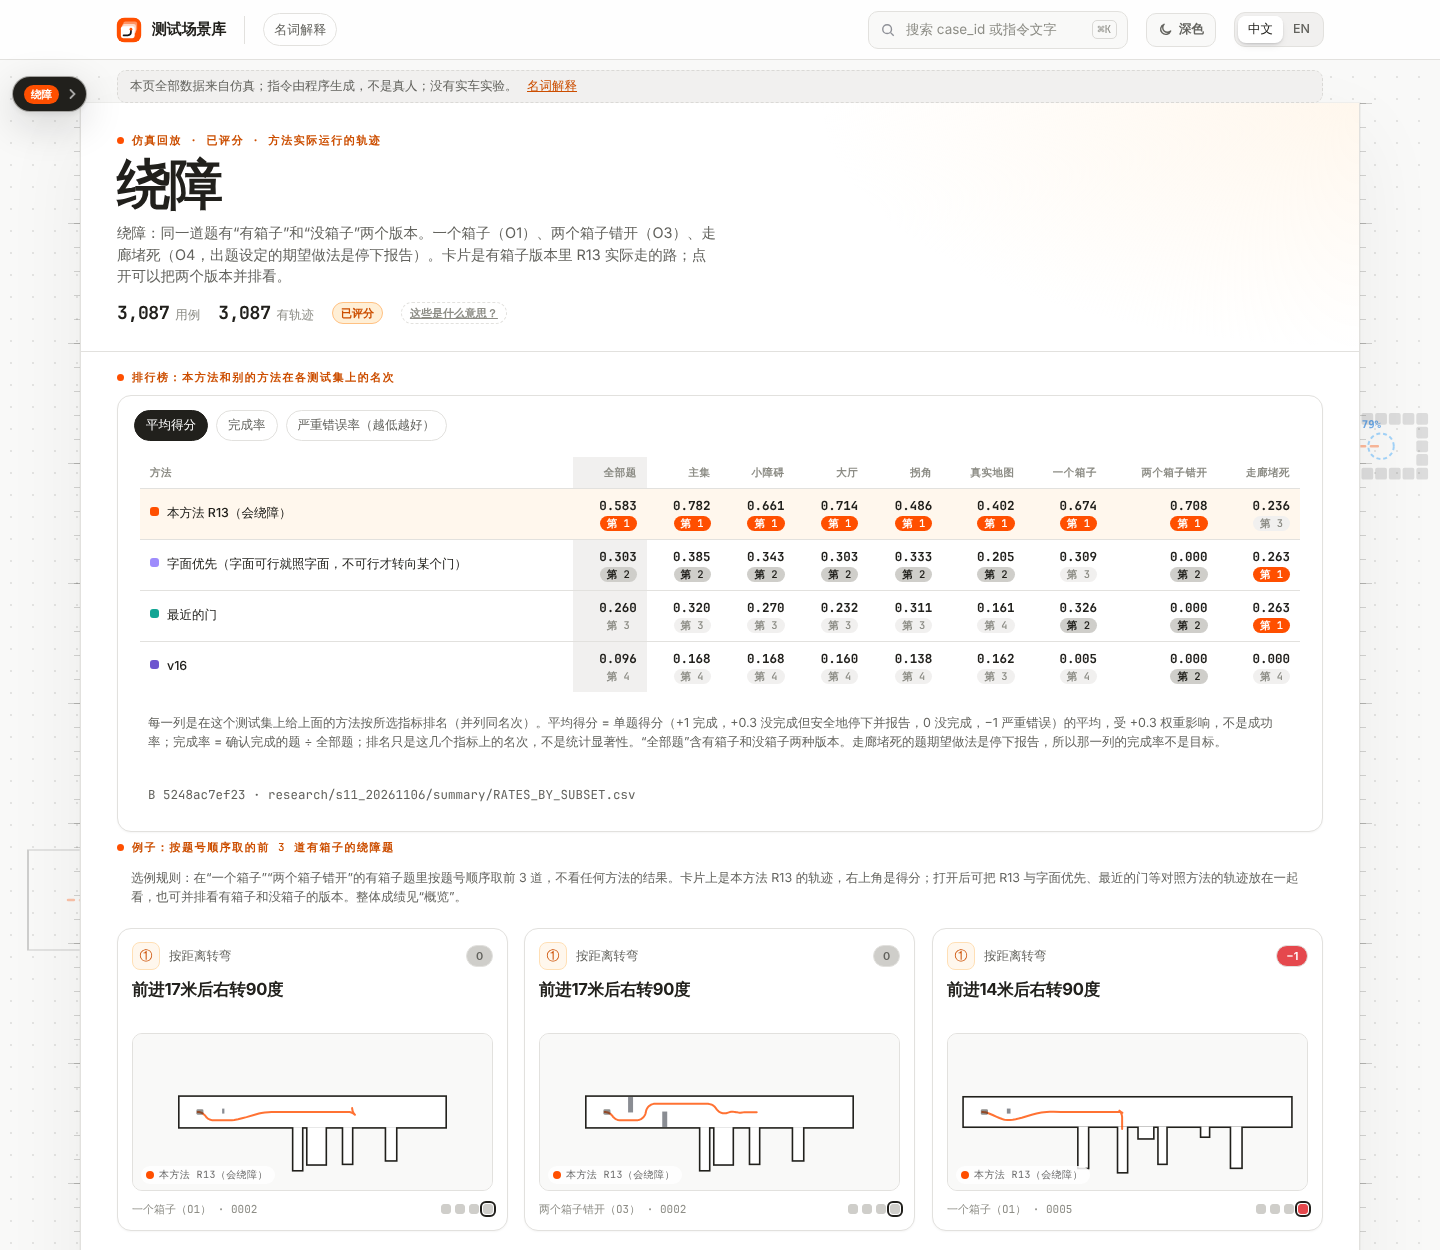
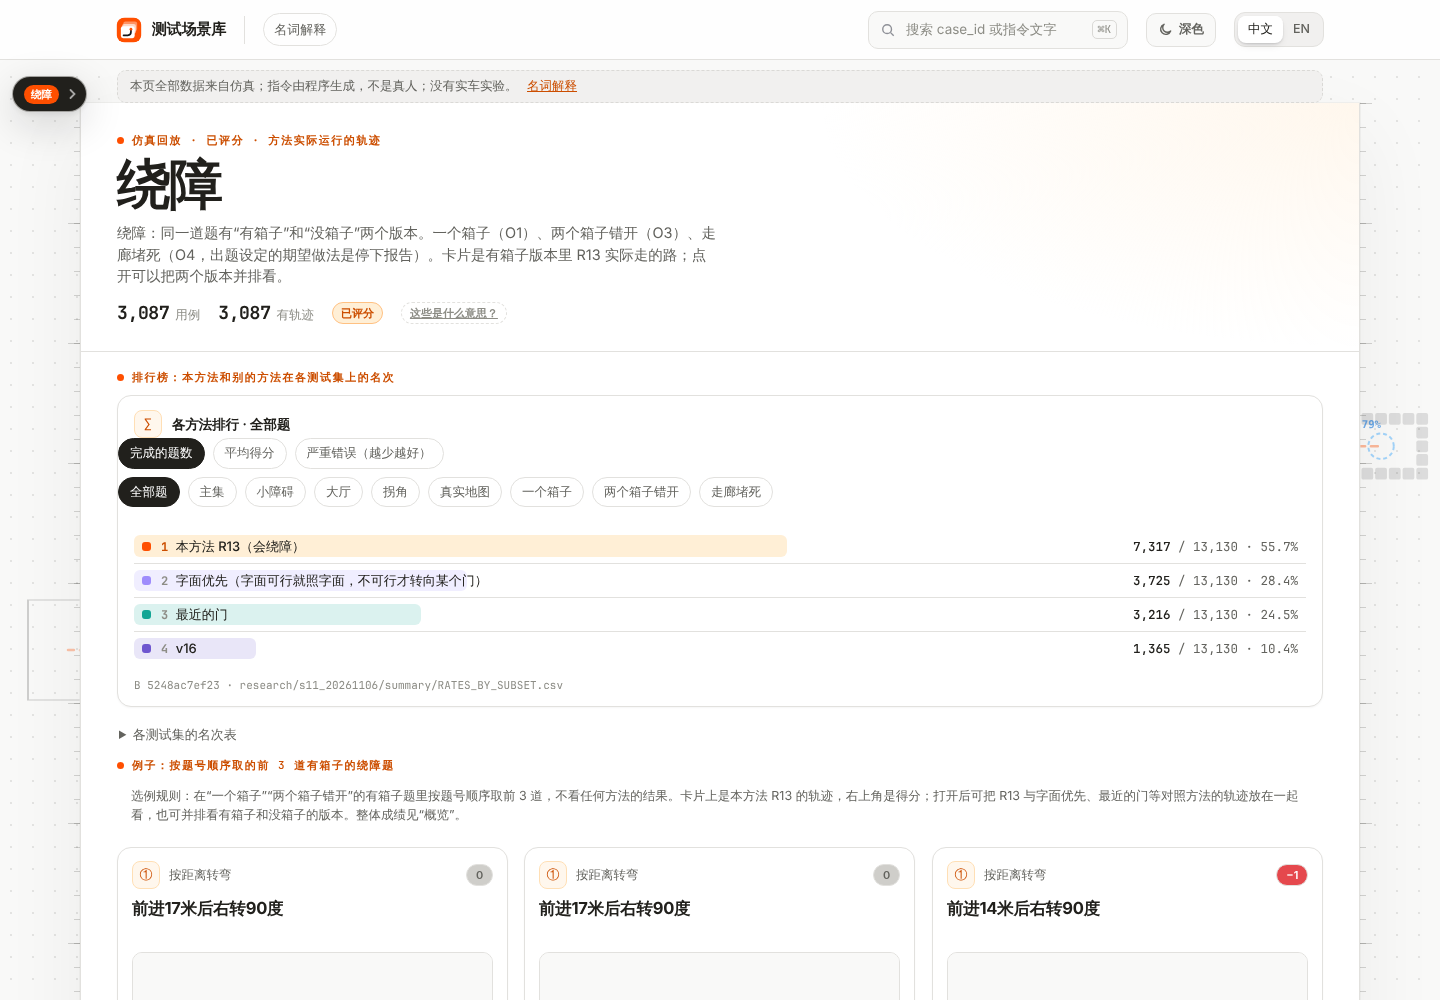
Update site: bar-style ranking
Claude-Session: https://claude.ai/code/session_01WXp2ArzCVivbkPhHKuNYSE

diff --git a/assets/s11.js b/assets/s11.js
@@ -259,9 +259,29 @@ function rankHTML(compact) {
     <p class="note">${T('每一列是在这个测试集上给上面的方法按所选指标排名（并列同名次）。平均得分 = 单题得分（+1 完成，+0.3 没完成但安全地停下并报告，0 没完成，−1 严重错误）的平均，受 +0.3 权重影响，不是成功率；完成率 = 确认完成的题 ÷ 全部题；排名只是这几个指标上的名次，不是统计显著性。“全部题”含有箱子和没箱子两种版本。走廊堵死的题期望做法是停下报告，所以那一列的完成率不是目标。', 'Each column ranks the methods above on the chosen metric for that test set (ties share a rank). Mean score = average of the per-case score (+1 completed, +0.3 not completed but stopped safely and reported, 0 not completed, −1 severe error), affected by the +0.3 weight and not a success rate; completion rate = confirmed completed ÷ all cases; ranks are positions on these metrics, not statistical significance. “All cases” includes the with-box and no-box versions. In the corridor-blocked cases the expected behaviour is to stop and report, so completion is not the goal in that column.')}</p>
     <div class="note src">${esc(S.sources.rates)}</div>`;
 }
+const BK = {scope: 'ALL_LOGICAL', metric: 'comp'};
+function barsHTML() {
+  const m = BK.metric, low = m === 'sev', arms = RK_CORE;
+  const rows = arms.map(a => { const r = rate(BK.scope, a); if (!r) return null;
+    const v = rkVal(r, m), num = m === 'comp' ? r.confirmed_completed : m === 'sev' ? r.severe : v, den = m === 'comp' ? r.n : m === 'sev' ? r.severe_known : 1;
+    const share = m === 'mean' ? Math.max(0, v) : m === 'comp' ? v : Math.min(1, v * 4);
+    return {a, v, num, den, share}; }).filter(Boolean).sort((p, q) => low ? p.v - q.v : q.v - p.v);
+  const mt = [['comp', T('完成的题数', 'Cases completed')], ['mean', T('平均得分', 'Mean score')], ['sev', T('严重错误（越少越好）', 'Severe errors (fewer is better)')]];
+  const sc = RK_SCOPES.find(x => x[0] === BK.scope);
+  return `<article class="card metric rkbars"><div class="card-h"><span class="tile">∑</span><h3>${T('各方法排行', 'Ranking of the methods')} · ${esc(T(sc[1], sc[2]))}</h3></div>
+    <nav class="atoc s10nav rkm" style="margin:0 0 8px">${mt.map(([k, l]) => `<a class="${BK.metric === k ? 'on' : ''}" data-m="${k}">${l}</a>`).join('')}</nav>
+    <nav class="atoc s10nav rks" style="margin:0 0 10px">${RK_SCOPES.map(([k, zh, en]) => `<a class="${BK.scope === k ? 'on' : ''}" data-s="${k}">${T(zh, en)}</a>`).join('')}</nav>
+    <div class="rows">${rows.map((r, i) => `<div class="row ${r.a === 'method_R13' ? 'me' : ''}" style="--c:${ARMC[r.a] || '#888'}"><span class="share" style="width:${(r.share * 100).toFixed(1)}%"></span><span class="sw" style="background:${ARMC[r.a] || '#888'}"></span><span class="nm"><i class="rkn">${i + 1}</i> ${esc(armName(r.a))}</span>
+      <span class="val">${m === 'mean' ? `<b>${r.v.toFixed(3)}</b>` : `<b>${fmt(r.num)}</b> / ${fmt(r.den)}`}${m === 'comp' ? ` · ${(100 * r.v).toFixed(1)}%` : ''}</span></div>`).join('')}</div>
+    <div class="foot src">${esc(S.sources.rates)}${m === 'mean' ? ' · ' + T('平均得分 = 单题得分的平均（+1 完成，+0.3 没完成但安全地停下并报告，0 没完成，−1 严重错误）', 'mean score = average per-case score (+1 completed, +0.3 not completed but stopped safely and reported, 0 not completed, −1 severe error)') : ''}</div></article>`;
+}
 function mountRank(host) {
   if (!host) return;
-  const draw = () => { host.innerHTML = rankHTML(); host.querySelectorAll('.rkm a').forEach(a => a.onclick = () => { RK.metric = a.dataset.m; draw(); }); const c = host.querySelector('.rkchk'); if (c) c.onchange = () => { RK.all = c.checked; draw(); }; };
+  const draw = () => { host.innerHTML = barsHTML() + `<details class="rkdet" style="margin-top:12px"><summary>${T('各测试集的名次表', 'Rank table per test set')}</summary>${rankHTML()}</details>`;
+    host.querySelectorAll('.rkbars .rkm a').forEach(a => a.onclick = () => { BK.metric = a.dataset.m; RK.metric = a.dataset.m; draw(); host.querySelector('.rkdet').open = host.dataset.open === '1'; });
+    host.querySelectorAll('.rks a').forEach(a => a.onclick = () => { BK.scope = a.dataset.s; draw(); });
+    host.querySelectorAll('.rkdet .rkm a').forEach(a => a.onclick = () => { RK.metric = a.dataset.m; BK.metric = a.dataset.m; host.dataset.open = '1'; draw(); host.querySelector('.rkdet').open = true; });
+    const c = host.querySelector('.rkchk'); if (c) c.onchange = () => { RK.all = c.checked; host.dataset.open = '1'; draw(); host.querySelector('.rkdet').open = true; }; };
   draw();
 }
 function dataHTML() {
@@ -271,7 +291,7 @@ function dataHTML() {
   return `<section class="s10data" id="s11data"><div class="eyebrow" style="margin-top:34px"><span class="dot"></span>${T('主方法 R13 的测试结果', 'Results of the main method R13')} · B ${esc(S.b.slice(0, 11))}</div>
     <p class="lede" style="margin:6px 0 12px">${T('R13 是本项目提出的方法。它在“照指令字面走”和“进某个门”之间选一个；路被箱子挡住时会换道绕过去，绕不过去才停下报告。下面是它在各测试集上和字面优先、最近的门、v16 的对照。全部是仿真，指令由程序生成。', 'R13 is the method proposed in this project. It chooses between following the words of the instruction and entering an opening; when a box blocks the way it changes lane around it, and only when it cannot get around does it stop and report. Below it is compared with literal-first, nearest opening and v16 on every test set. Everything is simulated, and commands are program-generated.')}</p>
     <p class="note" style="margin:0 0 10px">${T('几个数量的口径：测试题 13,130 道（绕障的“有箱子”“没箱子”各算一题）；题 × 8 个方法 = 105,040 个结果；其中 82,896 次是实际运行，其余 22,144 个是“没箱子”借用基础集同一场景的记录。“必须绕过箱子的 922 题”是一个箱子、两个箱子错开里指令要求越过箱子位置的题（492 + 430）；“3,087”是绕障类别里有箱子的题数（549 + 474 + 2,064）。本页的表比较 8 个方法，分析页比较其中的一部分。', 'What the counts mean: 13,130 test cases (the with-box and no-box versions of a detour case count separately); cases × 8 methods = 105,040 results, of which 82,896 are actual runs and the other 22,144 are no-box results that reuse the record of the same base-set scene. “The 922 cases that require a detour” are those in the one-box and two-staggered-box sets whose instruction requires passing the box position (492 + 430); “3,087” is the number of with-box cases in the detour category (549 + 474 + 2,064). The tables on this page compare 8 methods; the analysis page compares some of them.')}</p>
-    <h3 class="s10h3" style="margin-top:8px">${T('排行榜：各方法在每个测试集上的名次', 'Leaderboard: rank of every method on every test set')}</h3><div id="rankov" class="card" style="padding:14px 16px"></div>
+    <h3 class="s10h3" style="margin-top:8px">${T('排行榜：各方法在每个测试集上的名次', 'Leaderboard: rank of every method on every test set')}</h3><div id="rankov"></div>
     <div class="agrid s10grid"><article class="card s10hero"><div class="card-h"><h3>${T('完成的题数', 'Completed cases')}</h3><span class="more">${T('确认完成 / 登记题数', 'confirmed / registered')}</span></div>
       <div class="big2"><div><b>${fmt(P.confirmed_completed)}</b><span>${T('必须绕过箱子的 922 题：本方法 R13 完成', 'The 922 cases that require a detour: completed by R13')}</span></div><div><b>${fmt(PL.confirmed_completed)}</b><span>${T('同上，字面优先', 'same, literal-first')}</span></div>
       <div><b>${fmt(PN.confirmed_completed)}</b><span>${T('同上，最近的门', 'same, nearest opening')}</span></div><div><b>${fmt(PV16.confirmed_completed)}</b><span>${T('同上，v16（原有系统）', 'same, v16 (original system)')}</span></div></div>

diff --git a/assets/app.js b/assets/app.js
@@ -435,7 +435,7 @@ function renderList() {
     ${ds ? `<div class="rows">${arms.map(a => [a, rate(ds, 'ALL', a)]).filter(x => x[1]).sort((p, q) => q[1].intent_success.success - p[1].intent_success.success).map(([a, r]) => `<div class="row ${a === MA ? 'me' : ''}" style="--c:${ARMC[a]}"><span class="share" style="width:${r.intent_success.success / r.slots * 100}%"></span><span class="sw" style="background:${ARMC[a]}"></span><span class="nm">${t('arm')[a]}</span><span class="val"><b>${fmt(r.intent_success.success)}</b> / ${fmt(r.slots)}${r.intent_success.unknown ? ` · ? ${fmt(r.intent_success.unknown)}` : ''}</span></div>`).join('')}</div>
     <div class="foot src">${esc(all ? all.scope : '')}</div>` : noRates}</article>
   </div>`}</section>
-  ${state.set === 'Y4' ? `<section class="rankhome" id="rankhome"><div class="eyebrow"><span class="dot"></span>${L === 'zh' ? '排行榜：本方法和别的方法在各测试集上的名次' : 'Leaderboard: the main method and the others, ranked on every test set'}</div><div id="rankbox" class="card" style="padding:14px 16px;margin-top:10px"></div></section>` : ''}
+  ${state.set === 'Y4' ? `<section class="rankhome" id="rankhome"><div class="eyebrow"><span class="dot"></span>${L === 'zh' ? '排行榜：本方法和别的方法在各测试集上的名次' : 'Leaderboard: the main method and the others, ranked on every test set'}</div><div id="rankbox" style="margin-top:10px"></div></section>` : ''}
   ${state.set === 'Y4' ? `<section class="feat" id="featwrap"><div class="eyebrow"><span class="dot"></span>${L === 'zh' ? '例子：按题号顺序取的前 3 道有箱子的绕障题' : 'Examples: the first 3 with-box detour cases in case-number order'}</div><p class="note">${L === 'zh' ? '选例规则：在“一个箱子”“两个箱子错开”的有箱子题里按题号顺序取前 3 道，不看任何方法的结果。卡片上是本方法 R13 的轨迹，右上角是得分；打开后可把 R13 与字面优先、最近的门等对照方法的轨迹放在一起看，也可并排看有箱子和没箱子的版本。整体成绩见“概览”。' : 'Rule: the first 3 with-box cases in the one-box and two-staggered-box sets in case-number order, without looking at any method’s result. The cards show the trajectory of the main method R13, with its score at the top right; open one to compare R13 with the baselines (literal-first, nearest opening, …) or to see the with-box and no-box versions side by side. Overall results are in the Overview.'}</p><div class="grid" id="feat"></div></section>` : ''}
   <div class="fbar" id="fbar">
    <div class="frow">${subs.length ? `<span class="flab">${t('fSub')}</span>${seg('sub', [['all', t('allSub')], ...subs.map(x => [x, esc(subLabel(x))])], state.sub, 'sm subseg')}<span class="fsep"></span>` : ''}

diff --git a/assets/app.css b/assets/app.css
@@ -776,3 +776,7 @@ table.rkt td.c b{display:block}
 .rk{display:inline-block;margin-top:2px;padding:0 7px;border-radius:999px;font:600 10.5px var(--mono);color:var(--ink3);background:var(--fill)}
 .rk.r1{background:var(--accent);color:#fff}.rk.r2{background:var(--sand7);color:var(--ink)}
 .rkt{min-width:760px}
+
+.rkbars .rows{margin-top:4px}.rkn{font:700 12px var(--mono);color:var(--ink3);margin-right:4px;font-style:normal}
+.row.me .rkn{color:var(--accent-ink)}
+.rkdet>summary{cursor:pointer;font-size:13px;color:var(--ink2);padding:6px 2px}
